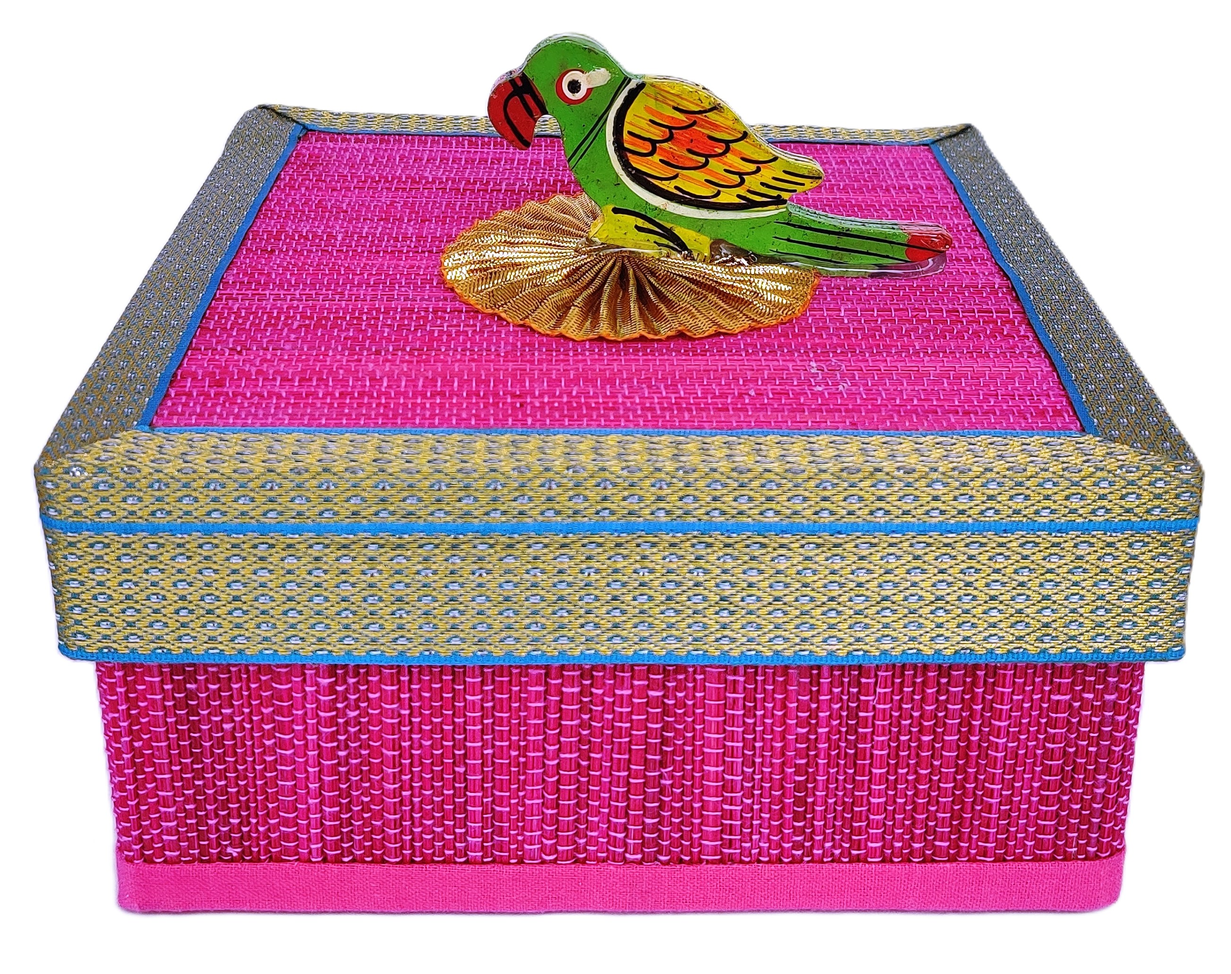
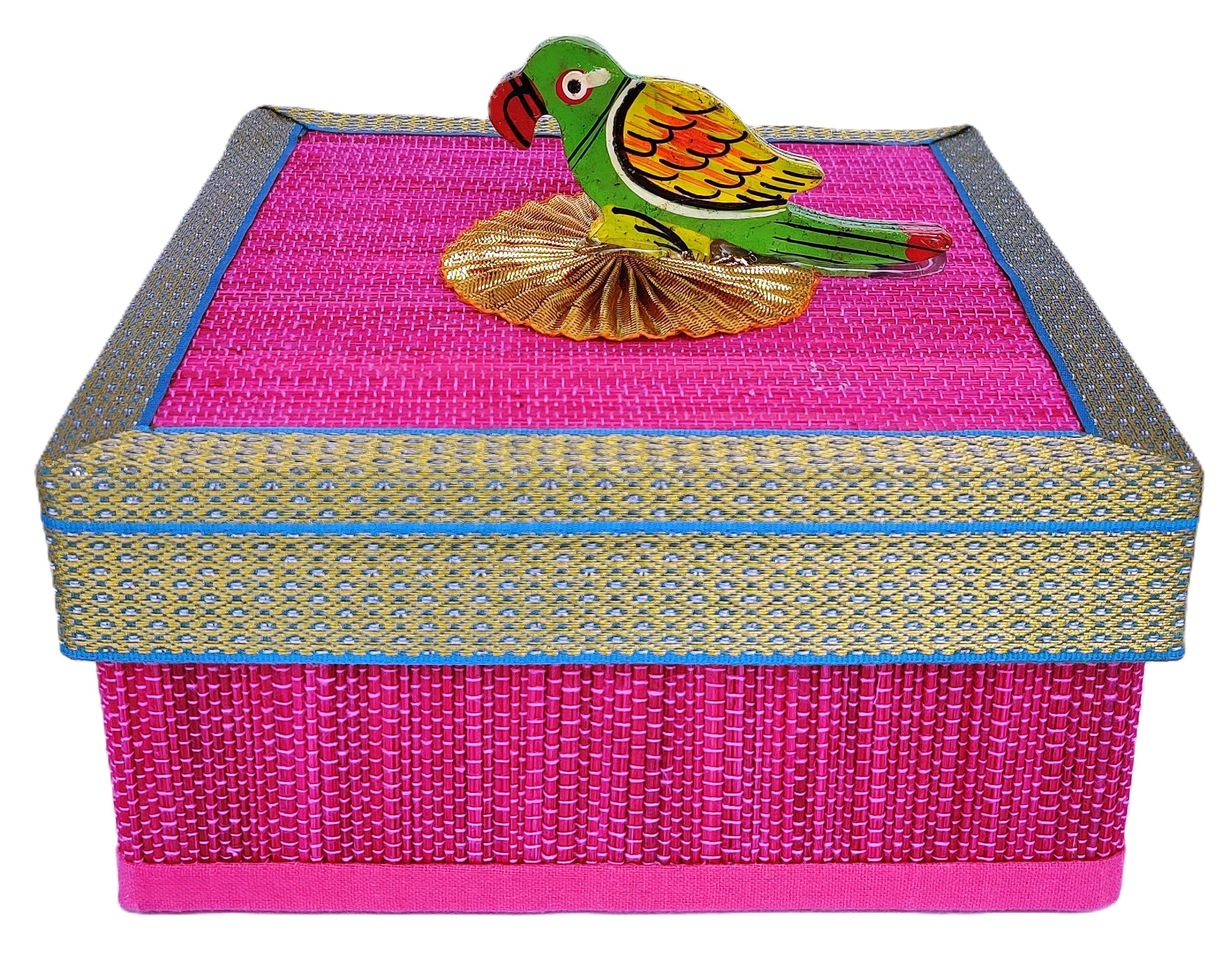
Update jpg to png

diff --git a/index.html b/index.html
@@ -66,7 +66,7 @@
         <div class="grid">
           <!-- Product card -->
           <article class="card">
-            <a href="product.html" class="card__image" aria-label="View product"><img src="Assets\Products\Boxes\Bamboo Boxes Square\1.jpg" alt="Product image"/></a>
+            <a href="product.html" class="card__image" aria-label="View product"><img  src="Assets\Products\Boxes\Bamboo Boxes Square\1.png" alt="Product image" /></a>
             <div class="card__body">
               <div class="card__title">Bamboo Boxes Square</div>
               <div class="card__meta"><span>Gift</span><span class="card__price">₹999</span></div>

diff --git a/product.html b/product.html
@@ -24,7 +24,7 @@
   <main class="container section">
     <div class="product">
       <div class="product__gallery">
-        <img src="Assets/Products/Boxes/Bamboo Boxes Square/1.jpg" alt="Bamboo Boxes Square"/>
+        <img src="Assets/Products/Boxes/Bamboo Boxes Square/1.png" alt="Bamboo Boxes Square"/>
       </div>
       <div class="product__info">
         <h1>Bamboo Boxes Square</h1>
